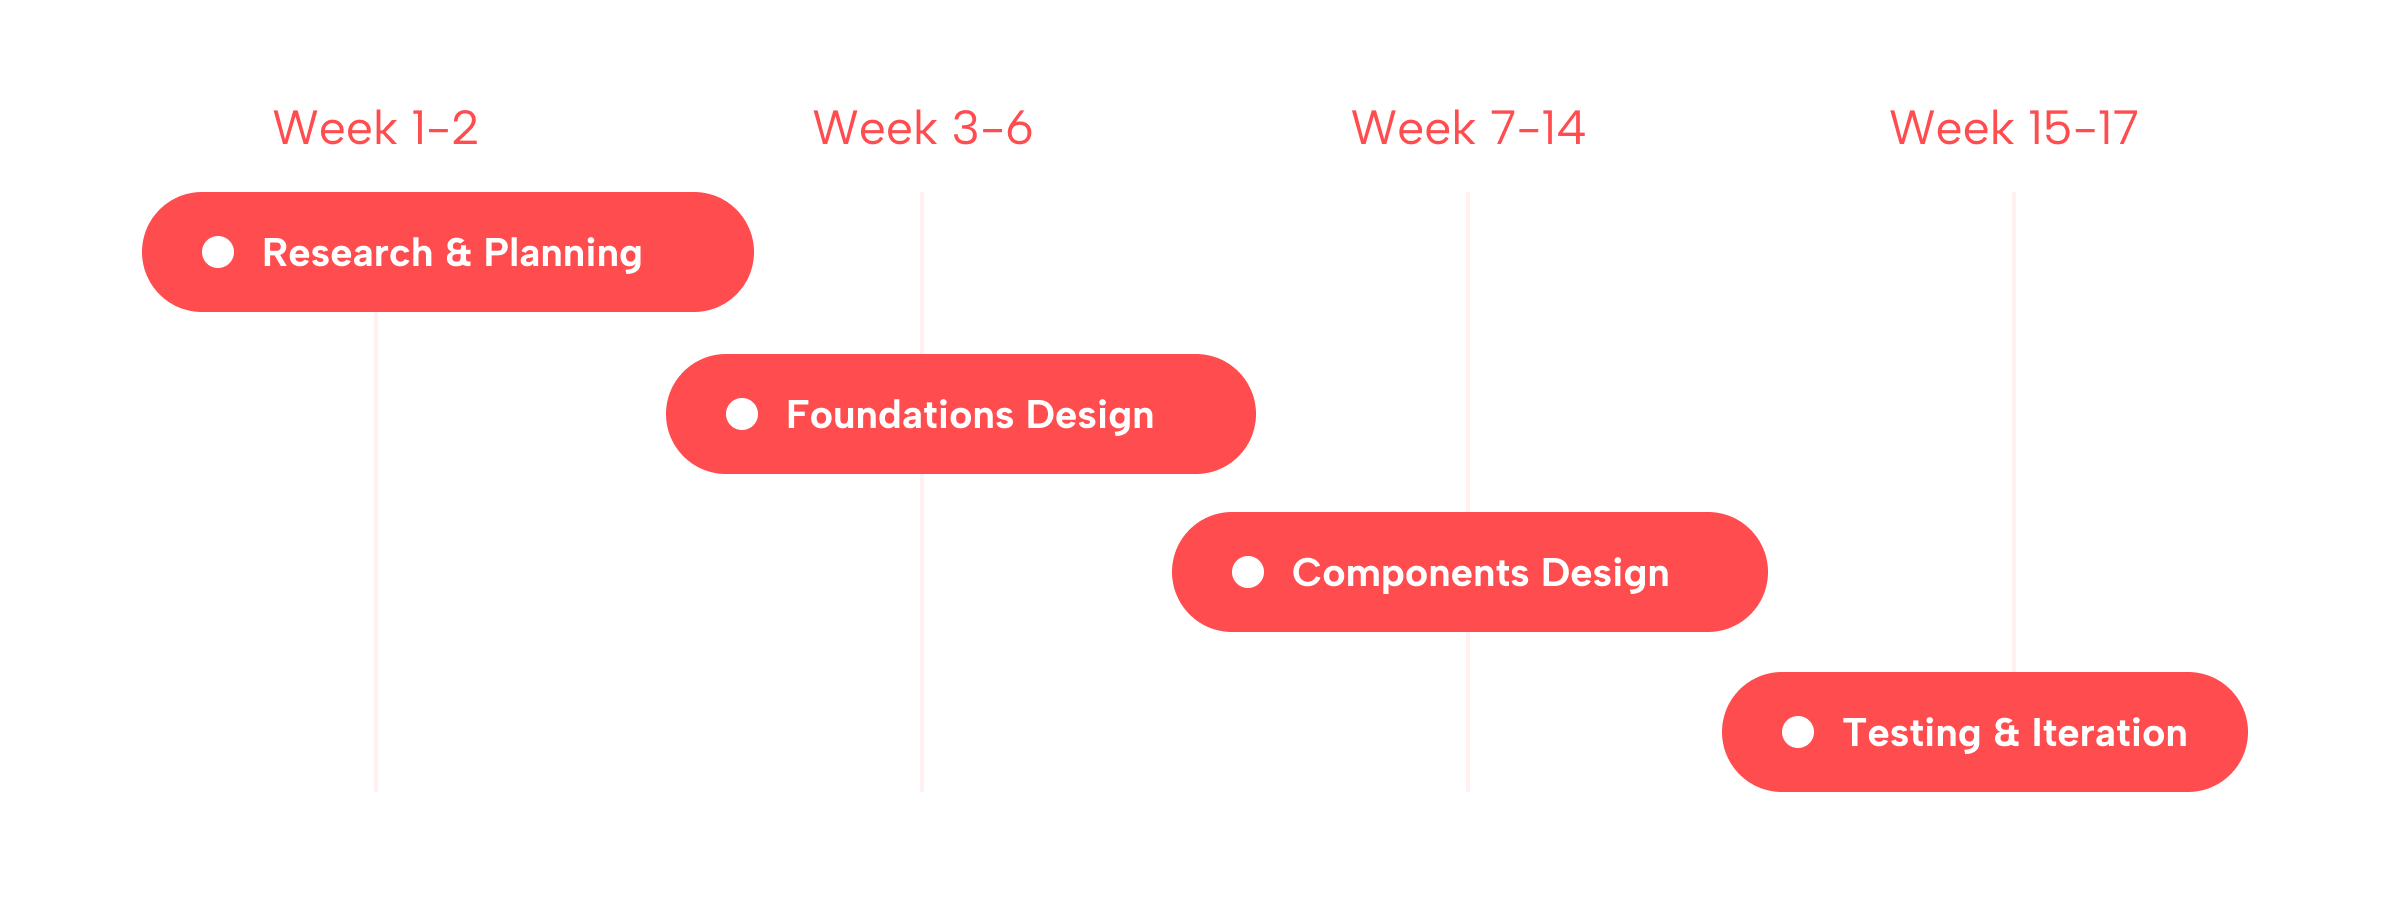
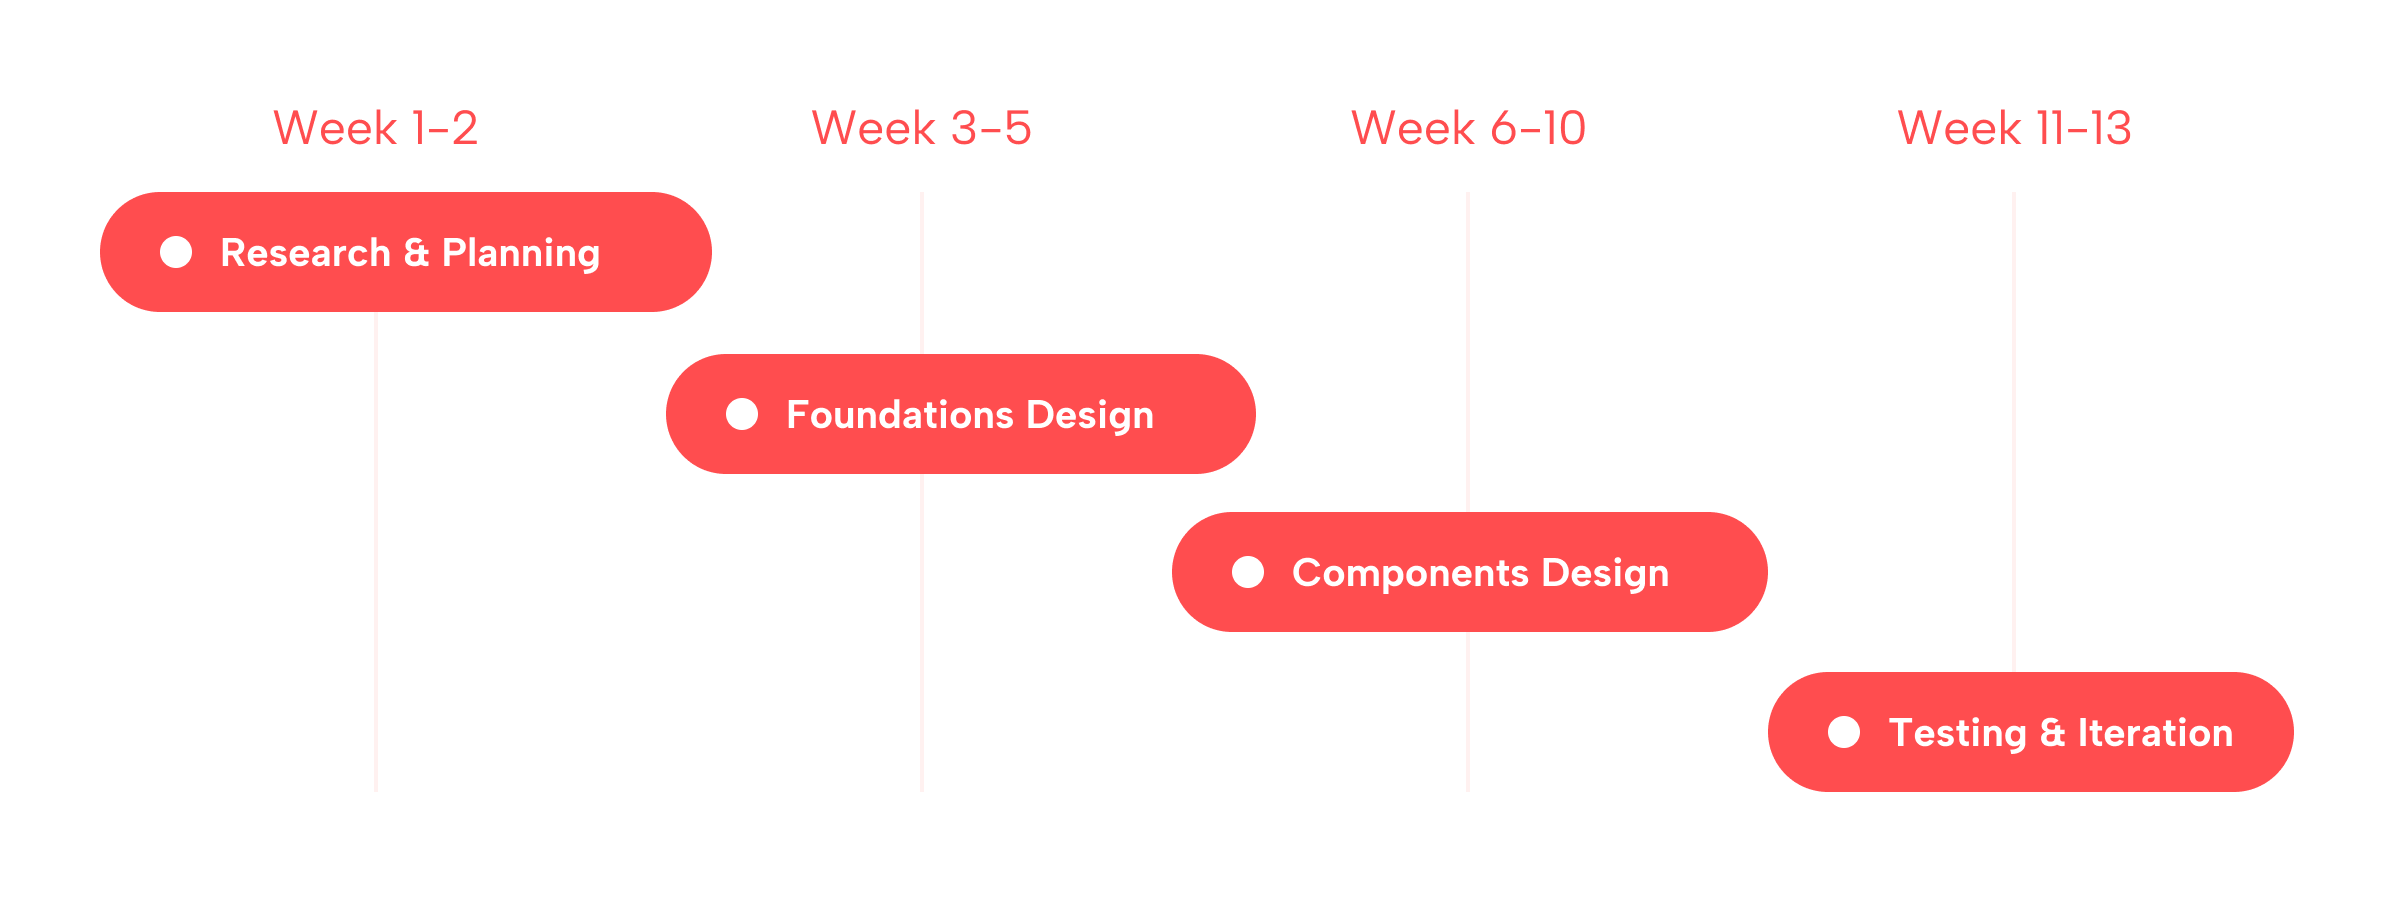
updatesomestyle

diff --git a/projects/Loan.html b/projects/Loan.html
@@ -245,12 +245,13 @@
             </div>
             <div class="inside-project-container">
                 <p class="inside-project-title2">Future Considerations</p>
-                <p class="inside-project-paragraph">As I was solely responsible 
-                    for project management, product design, UX and UI design, 
-                    I couldn't refine the interaction details as much as I wanted or 
-                    be confident that my design provided the best user experience. 
-                    I hoped to work in an environment with a dedicated design team 
-                    that prioritises user experience.</p>
+                <p class="inside-project-paragraph">In the future, I would 
+                    explore ways to better integrate dealership salespeople 
+                    into the loan experience. Providing them with simple 
+                    tools (like a loan comparison sheet or a short training video) 
+                    could boost their confidence in recommending our platform and 
+                    improve offline conversions. Small, effective solutions can make 
+                    a big impact.</p>
                 <div class="inside-button-container">
                     <button class="View-Prototype loan-video">View Prototype<img src="../assets/images/whiteprotype.png" alt="triangle-image" class="triangle-image"></button>
                 </div>
@@ -324,8 +325,7 @@
         <script src="../assets/js/index.js"></script>
         <script src="../assets/js/backtotop.js"></script>
         <script src="../assets/js/nexttopage.js"></script>
-        <script src="../assets/js/watchvideo.js"></script>
-        
+        <script src="../assets/js/watchvideo.js"></script>       
     </body>
 
     </html>

diff --git a/projects/DesignSystem.html b/projects/DesignSystem.html
@@ -90,7 +90,7 @@
                     <div class="Loan-description-right">
                         <div class="description-right-up">
                             <p class="timeline-description-title">Timeline</p>
-                            <p class="timeline-description-para">17 weeks</p>
+                            <p class="timeline-description-para">13 weeks</p>
                         </div>
                         <div class="description-right-down">
                             <p class="timeline-description-title">The Team</p>

diff --git a/assets/css/insideproject.css b/assets/css/insideproject.css
@@ -161,7 +161,7 @@ body {
 }
 
 .timeline-description-para-spec1 {
-    color: #E65744;
+    color: #FF4D4F;
 }
 
 .timeline-description-para-spec2 {
@@ -282,7 +282,6 @@ body {
 .next-page, .prev-page {
     color: #2C2C2C;
     font-size: 20px;
-    font-weight: bold;
 }
 
 #prev-page,

diff --git a/assets/css/index.css b/assets/css/index.css
@@ -1395,6 +1395,7 @@ $wordCount: 4; */
         margin: 0 20px 20px 20px;
     }
 
+
     .platform.active .platform-content-container {
         display: block; 
     }
